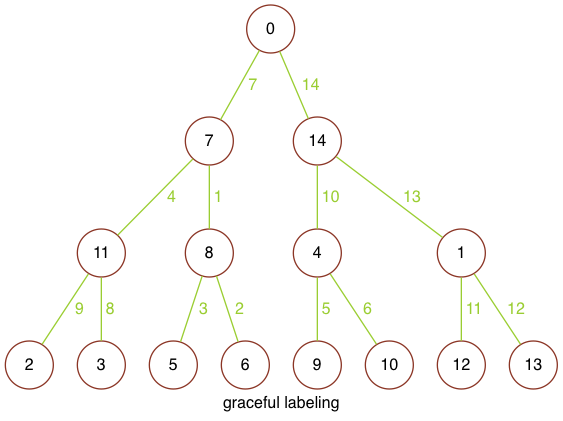
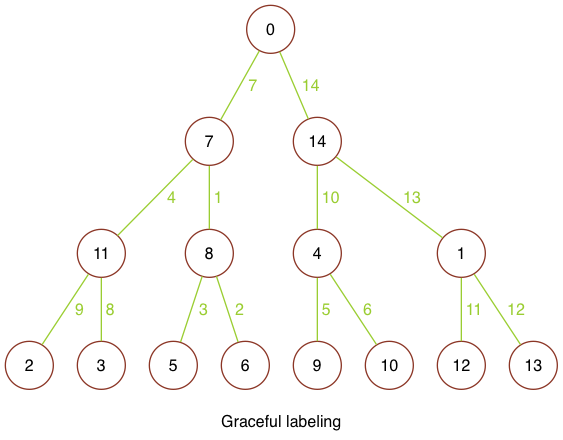
Generale all graceful labelings for all trees on n vertices

diff --git a/trees.rb b/trees.rb
@@ -10,6 +10,10 @@ class Fixnum
       (self - i).partitions(i).map { |rest| [i, *rest] }
     end
   end
+
+  def factorial
+    (1..self).inject(:*)
+  end
 end
 
 class Node
@@ -32,12 +36,12 @@ end
 class Tree
   attr_accessor :root
 
-  def self.build_trees(num_nodes)
+  def self.build_trees(n)
     root_nodes = []
-    if num_nodes == 1
+    if n == 1
       root_nodes << Node.new
     else
-      (num_nodes - 1).partitions.each do |partition|
+      (n - 1).partitions.each do |partition|
         root_nodes += Tree.partition_nodes(partition) unless partition.empty?
       end
     end
@@ -48,6 +52,7 @@ class Tree
   def render(options = {})
     graph_label = options[:label] || ""
     filename = options[:name] || "all_#{self.nodes.length}v_trees"
+
     GraphViz.graph( :G ) do |graph|
       graphviz_data(graph, "")
       graph[:label] = graph_label
@@ -72,12 +77,29 @@ class Tree
     end
   end
 
-  def self.render_trees(num_nodes)
+  def self.render_all_trees(n)
     GraphViz.graph( :G ) do |graph|
-      trees = Tree.build_trees(num_nodes)
-      trees.each_with_index { |tree, i| tree.graphviz_data(graph, i) }
+      trees = Tree.build_trees(n)
+      trees.each_with_index do |tree, i|
+        tree.label_nodes((0...n).to_a)
+        tree.graphviz_data(graph, "#{i}")
+      end
 
-      graph.output png: "graph_images/all_#{num_nodes}v_trees.png"
+      graph.output png: "graph_images/all_#{n}v_trees.png"
+    end
+  end
+
+  def self.render_graceful_trees(n, labelings)
+    GraphViz.graph( :G ) do |graph|
+      trees = Tree.build_trees(n)
+      trees.each_with_index do |tree, j|
+        labelings.each_with_index do |labeling, i|
+          tree.label_nodes(labeling)
+          tree.graphviz_data(graph, "#{i}#{j}") if tree.is_graceful?
+        end
+      end
+
+      graph.output png: "graph_images/all_#{n}v_graceful_trees.png"
     end
   end
 
@@ -125,7 +147,8 @@ class Tree
     if labeling.empty?
       nodes.each_with_index { |node, idx| node.label = idx }
     else
-      nodes.zip([0] + labeling).each { |node, label| node.label = label }
+      # nodes.zip([0] + labeling).each { |node, label| node.label = label }
+      nodes.zip(labeling).each { |node, label| node.label = label }
     end
   end
 

diff --git a/binary_tree.rb b/binary_tree.rb
@@ -7,11 +7,8 @@ class BinaryTree < Tree
 
   def self.build(options)
     tree = BinaryTree.new(options)
-    depth = options[:depth]
-    labeling = options[:labeling]
-    BinaryTree.build_btree(tree.root, depth)
-    # p "in build #{labeling}"
-    tree.label_nodes(labeling)
+    BinaryTree.build_children(tree.root, options[:depth])
+    tree.label_nodes(options[:labeling])
 
     tree
   end
@@ -22,20 +19,19 @@ class BinaryTree < Tree
     super(name: "btree_depth_#{depth}#{custom_name}", label: label)
   end
 
-  def self.build_btree(node, depth)
+  def self.build_children(node, depth)
     return if depth == 0
 
     node1, node2 = [Node.new, Node.new]
     node.children = [node1, node2]
-    [BinaryTree.build_btree(node1, depth - 1),
-     BinaryTree.build_btree(node2, depth - 1)]
+    [BinaryTree.build_children(node1, depth - 1),
+     BinaryTree.build_children(node2, depth - 1)]
   end
 
   def self.distinct_labelings(depth)
     (1...2 ** (depth + 1) - 1).to_a.permutation.to_a.map { |arr|
       slices = arr.each_slice(2).to_a;
-      a = slices.all? { |i, j| i < j };
-      a ? slices : nil
+      slices.all? { |i, j| i < j } ? slices : nil
     }.compact.map(&:flatten)
   end
 

diff --git a/render_tree_images.rb b/render_tree_images.rb
@@ -2,12 +2,14 @@ require_relative 'symmetric_star.rb'
 require_relative 'binary_tree.rb'
 
 
-labeling = [7, 14, 11, 8, 4, 1, 2, 3, 5, 6, 9, 10, 12, 13]
+labeling = [0, 7, 14, 11, 8, 4, 1, 2, 3, 5, 6, 9, 10, 12, 13]
 tree = BinaryTree.build(depth: 3, labeling: labeling)
-tree.render(name: "_graceful", label: "graceful labeling")
+tree.render(name: "_graceful", label: "\nGraceful labeling")
 
-l1, l2 = BinaryTree.graceful_labelings(2)
-BinaryTree.graceful_labelings(2).each.with_index do |labeling, i|
-  tree = BinaryTree.build(depth: 2, labeling: labeling)
-  tree.render(name: "#{i}_graceful", label: "graceful labeling")
-end
+star = SymmetricStar.build(legs: 7, depth: 3)
+star.render
+
+size = 5
+labelings = (0..size).to_a.permutation.to_a#[size.factorial - 1..-1]
+Tree.render_graceful_trees(size, labelings)
+# Tree.render_all_trees(4)
